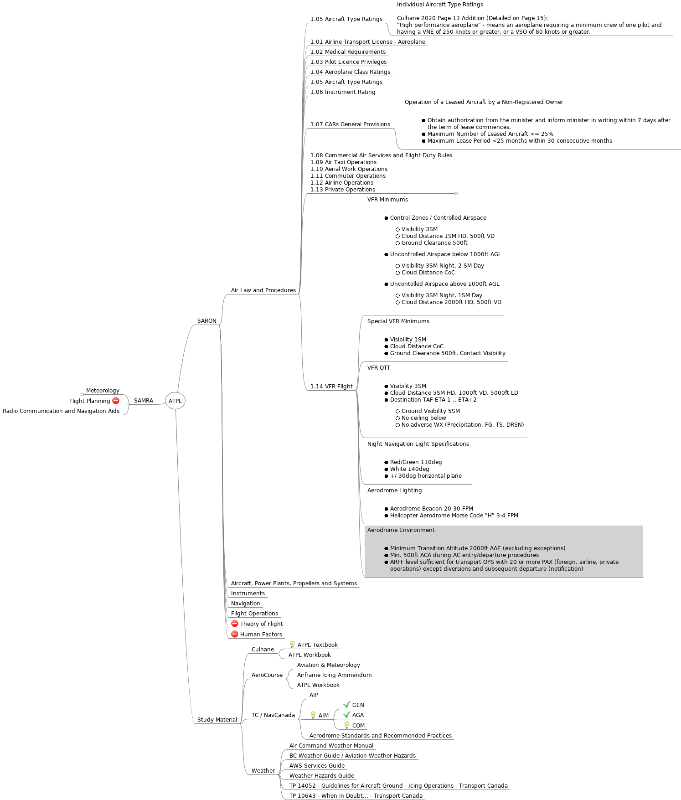
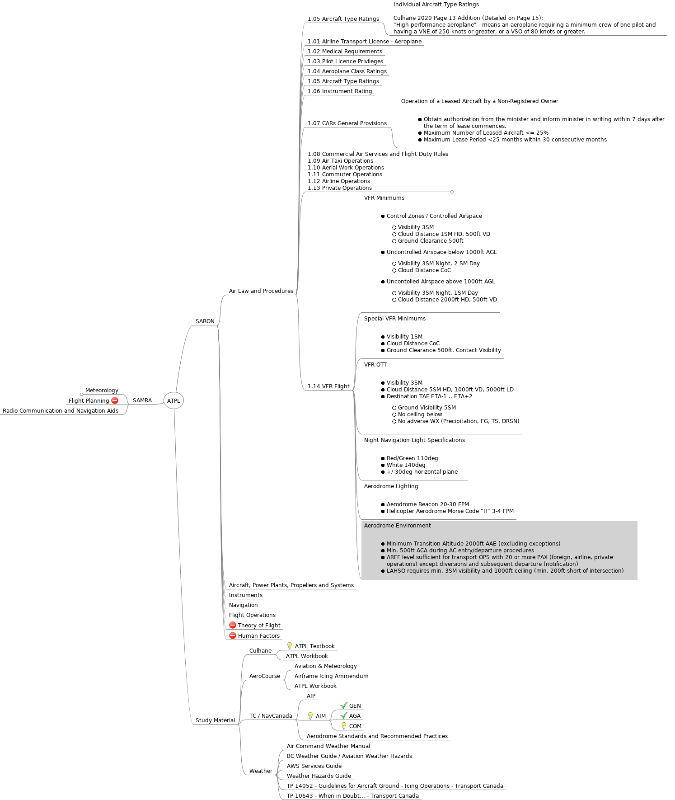
extended ATPL mind map

diff --git a/ATPL/ATPL.mm b/ATPL/ATPL.mm
@@ -1959,8 +1959,7 @@
       </li>
     </ul>
   </body>
-</html>
-</richcontent>
+</html></richcontent>
 </node>
 <node CREATED="1569785889378" ID="ID_608614203" MODIFIED="1569786878333">
 <richcontent TYPE="NODE"><html>
@@ -1986,8 +1985,7 @@
       </li>
     </ul>
   </body>
-</html>
-</richcontent>
+</html></richcontent>
 </node>
 <node CREATED="1569785902144" ID="ID_816148342" MODIFIED="1569787349279">
 <richcontent TYPE="NODE"><html>
@@ -2025,8 +2023,7 @@
       </li>
     </ul>
   </body>
-</html>
-</richcontent>
+</html></richcontent>
 </node>
 <node CREATED="1569788661680" ID="ID_1685840759" MODIFIED="1569788770111">
 <richcontent TYPE="NODE"><html>
@@ -2052,8 +2049,7 @@
       </li>
     </ul>
   </body>
-</html>
-</richcontent>
+</html></richcontent>
 </node>
 <node CREATED="1569789103838" ID="ID_434943156" MODIFIED="1569789201987">
 <richcontent TYPE="NODE"><html>
@@ -2076,10 +2072,9 @@
       </li>
     </ul>
   </body>
-</html>
-</richcontent>
+</html></richcontent>
 </node>
-<node CREATED="1569789857844" ID="ID_842942522" MODIFIED="1569791700145">
+<node CREATED="1569789857844" ID="ID_842942522" MODIFIED="1569793763154">
 <richcontent TYPE="NODE"><html>
   <head>
     
@@ -2100,6 +2095,9 @@
       </li>
       <li>
         ARFF level sufficient for transport OPS with 20 or more PAX (foreign, airline, private operations) except diversions and subsequent departure (notification)
+      </li>
+      <li>
+        LAHSO requires min. 3SM visibility and 1000ft ceiling (min. 200ft short of intersection)
       </li>
     </ul>
   </body>
